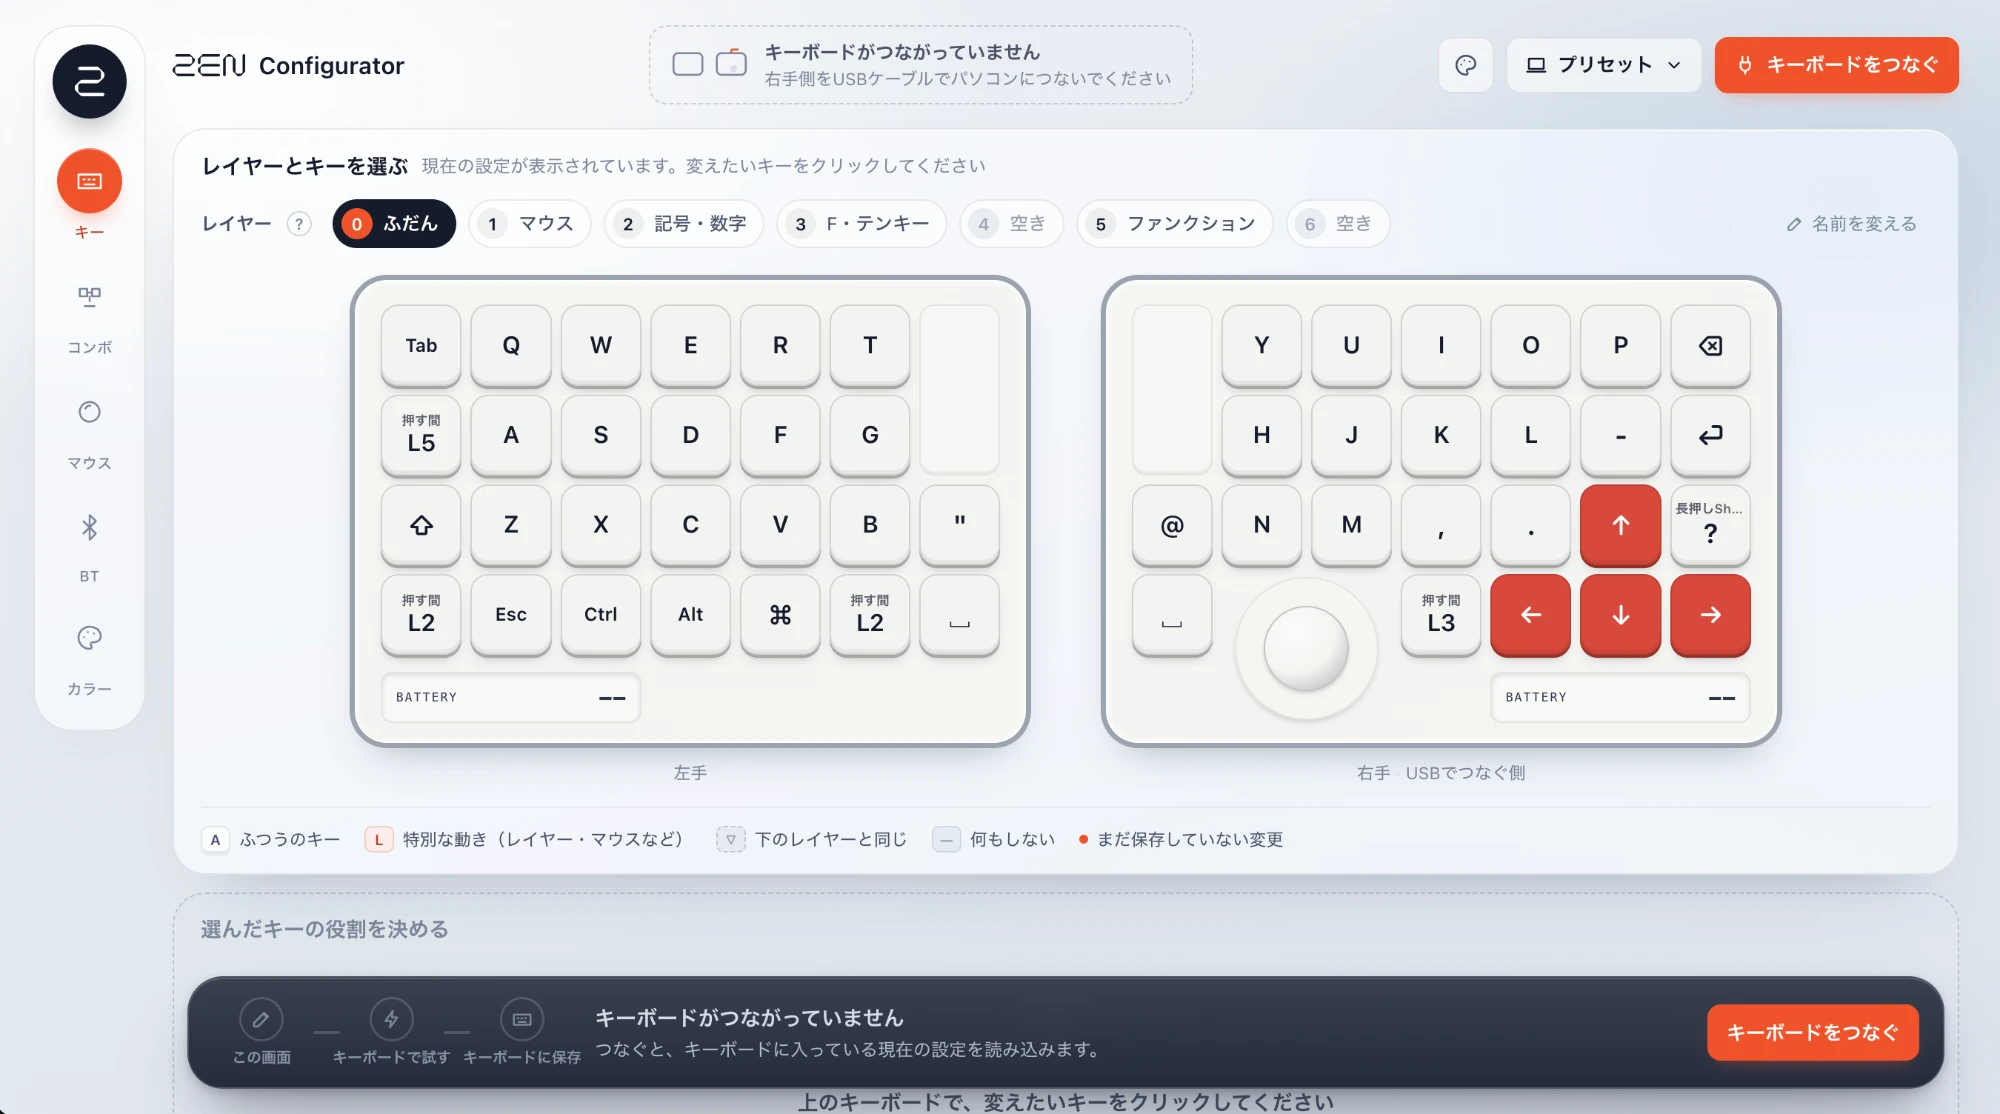
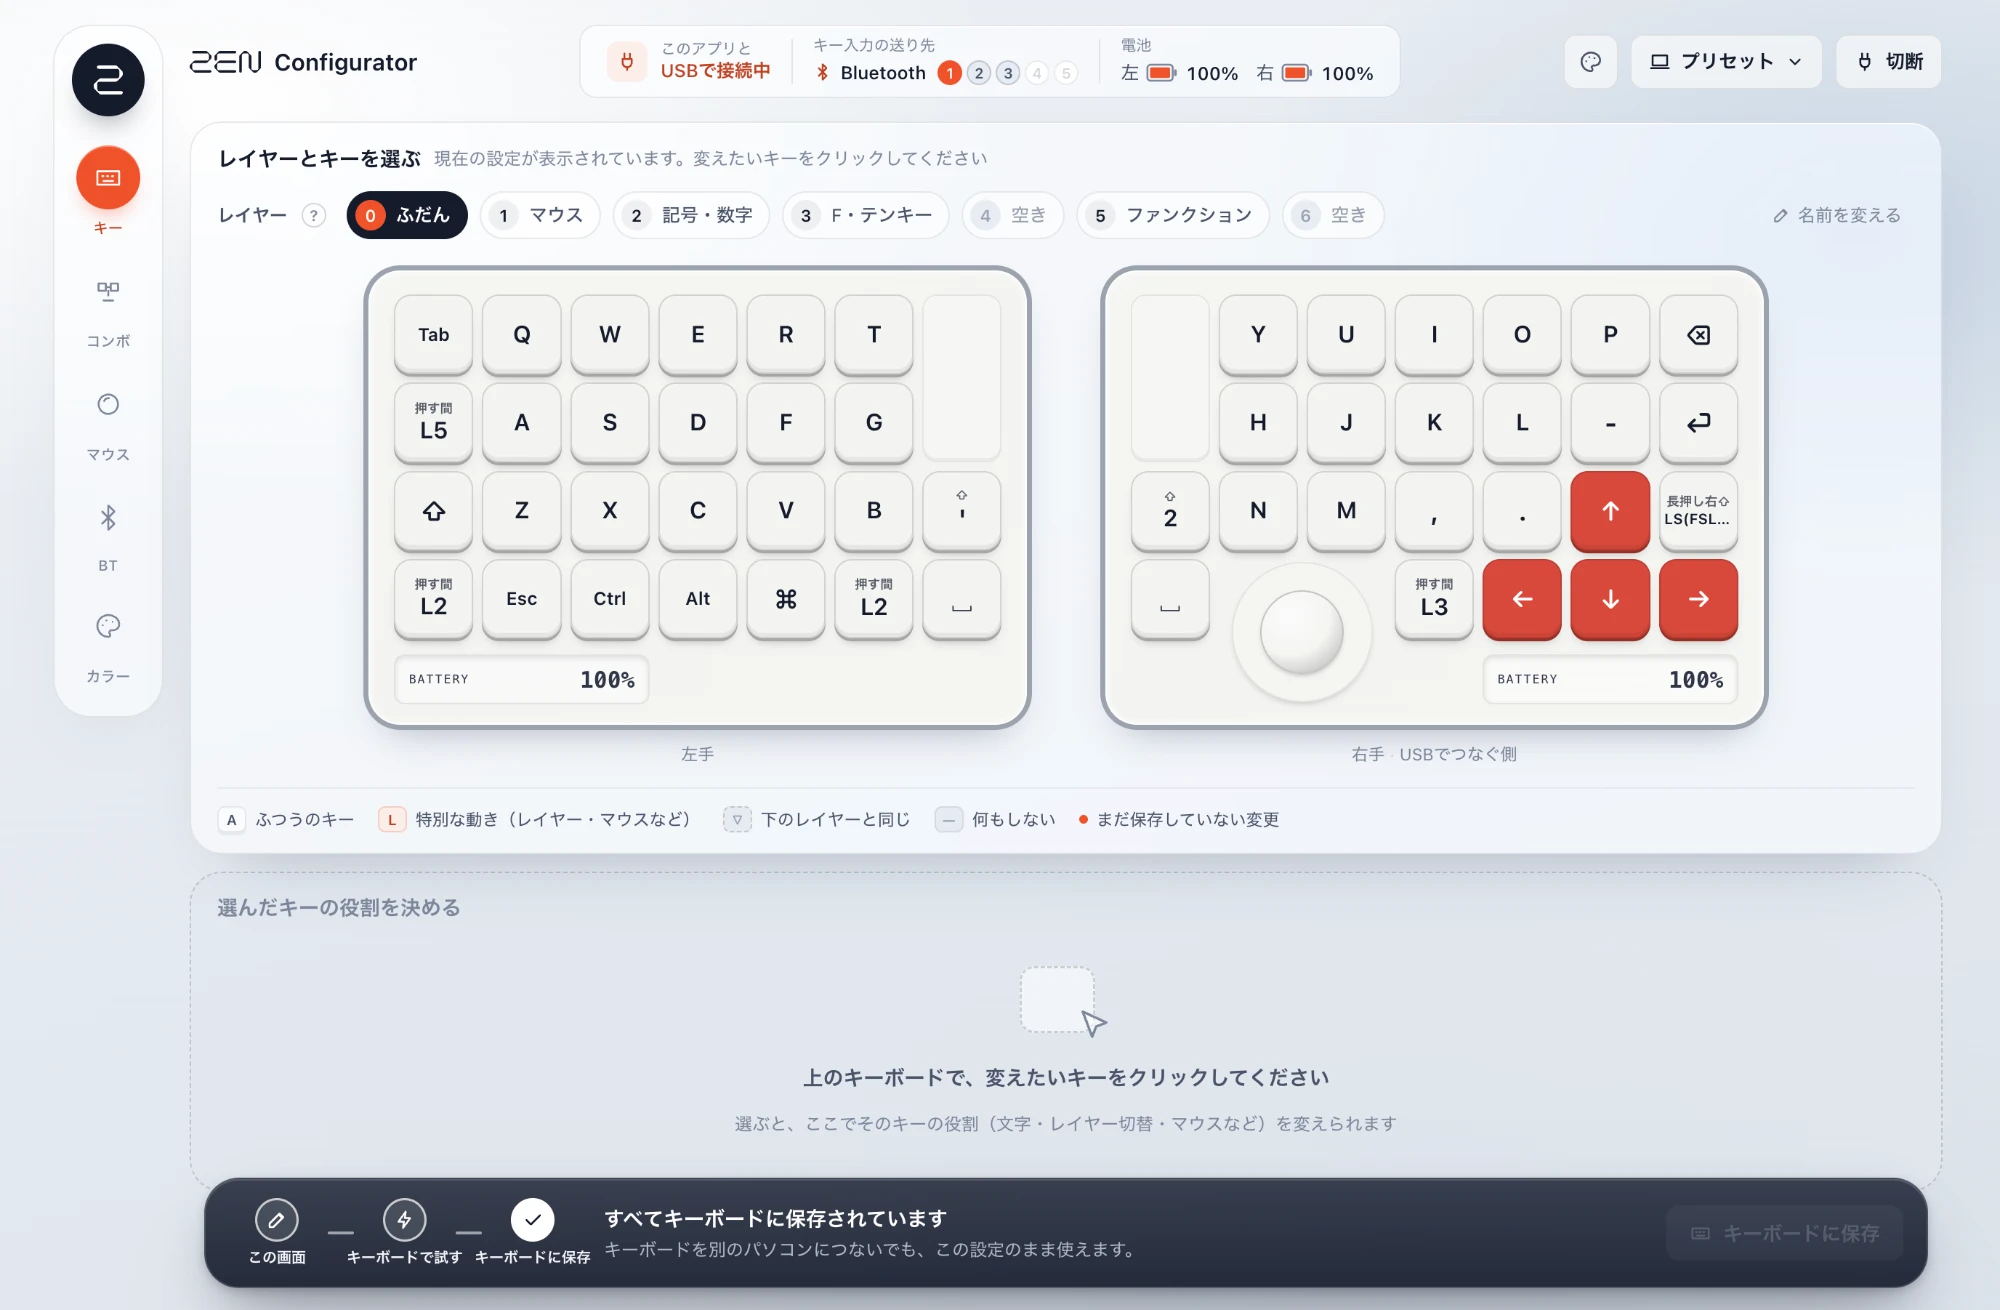
Use a connected screenshot of the Configurator
The first one was taken with nothing plugged in, so the product page
showed "キーボードがつながっていません" twice and a row of unsaved
keys. This one has the keyboard attached: both batteries at 100%, the
Bluetooth profile in view, and everything saved.

diff --git a/zen/index.html b/zen/index.html
@@ -230,8 +230,8 @@
     </div>
 
     <figure class="conf-shot reveal d1">
-      <img src="../assets/zen-configurator.webp" width="2000" height="1114" loading="lazy" decoding="async"
-           alt="ZEN Configurator の画面。左右のキーボードが並び、レイヤーを選んでキーを押すと役割を変えられる">
+      <img src="../assets/zen-configurator.webp" width="2000" height="1310" loading="lazy" decoding="async"
+           alt="ZEN Configurator の画面。USB でつないだ ZEN の左右のキーボードが並び、レイヤーを選んでキーを押すと役割を変えられる">
       <figcaption>
         <span class="cs-point">レイヤーごとに編集</span>
         <span class="cs-point">トラックボールの速さも調整</span>
